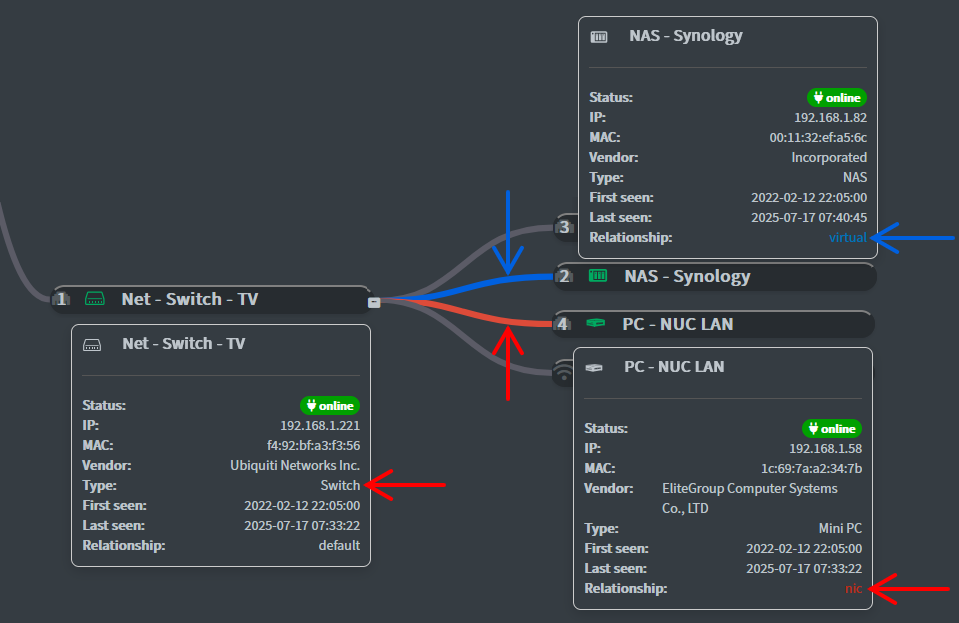
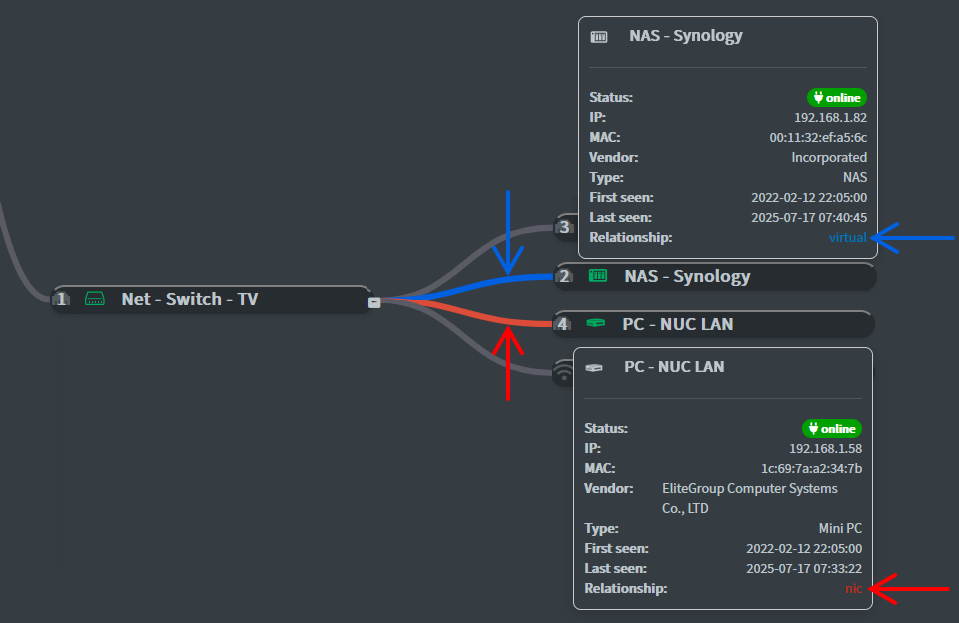
docs and refactor

Changed region(s): [[0.2419, 0.61, 0.4536, 0.8844], [0.0605, 0.6404, 0.1814, 0.8844], [0.121, 0.5185, 0.2722, 0.5795]]

diff --git a/front/css/app.css b/front/css/app.css
@@ -1671,7 +1671,7 @@ input[readonly] {
 /* AdminLTE overrides */
 #networkTree .box
 {
-    /* border-top:1px; */
+    border-width:1px;
     border-top-color:grey;
     padding:0px;
     margin:0px;
@@ -1707,6 +1707,7 @@ input[readonly] {
     opacity: 0.3;
     display: initial;    
     float: left;
+    width: 1em;
 }
 
 #networkTree
@@ -1791,6 +1792,14 @@ input[readonly] {
     box-shadow: var(--color-gray) 0px 0px 10px;
 }
 
+#networkTree .network-hw-icon
+{
+    position: absolute;
+    margin-left: -0.4em;
+    opacity: 0.3;
+    margin-top: 0.1em;
+}
+
 #networkTree .highlightedNode
 {
     /* border: solid; */
@@ -1819,6 +1828,11 @@ input[readonly] {
     /* z-index: 10; */
     top: 0.3em;
     /* margin-left: 0.2em; */
+}
+
+.networkTable
+{
+    padding-bottom: 1px;
 }
 
 .networkNodeTabHeaders .icon i

diff --git a/front/pluginsCore.php b/front/pluginsCore.php
@@ -4,12 +4,6 @@
   require_once  $_SERVER['DOCUMENT_ROOT'] . '/php/templates/security.php';
 ?>
 
-<!-- ----------------------------------------------------------------------- -->
-
-<!-- ----------------------------------------------------------------------- -->
- 
-
-
 <!-- Main content ---------------------------------------------------------- -->
 <section class="content">
   <div class="plugin-filters hidden" >
@@ -29,38 +23,56 @@
   
 </section>
 
-
-
 <script>
 
-// -----------------------------------------------------------------------------
-// Initializes fields based on current MAC
-function initFields() {   
+// Global variable to track the last MAC we initialized with
+let lastMac = null;
+let keepUpdating = true;
 
-  var urlParams = new URLSearchParams(window.location.search);
-  mac = urlParams.get ('mac');  
+function initMacFilter() {
+  // Parse the MAC parameter from the URL (e.g., ?mac=00:11:22:33:44:55)
+  const urlParams = new URLSearchParams(window.location.search);
+  const mac = urlParams.get('mac');
 
-  // if the current mac has changed, reinitialize the data
-  if(mac != undefined && $("#txtMacFilter").val() != mac)
-  {    
-    
-    $("#txtMacFilter").val(mac);    
+  // Set the MAC in the input field
+  $("#txtMacFilter").val(mac);
 
-    getData();
-  } 
-
+  return mac;  
 }
 
 // -----------------------------------------------------------------------------
-// Checking if current MAC has changed and triggering an updated if needed
-function updater() {   
+// Initializes the fields if the MAC in the URL is different or not yet set
+function initFields() {
 
-  initFields()
+  // Get current value from the readonly text field
+  const currentVal = initMacFilter();
 
-  // loop
-  setTimeout(function() {
-    updater();
-  }, 500);   
+  // If a MAC exists in the URL and it's either:
+  //  - the first time running (field shows default "--"), or
+  //  - different from what's already displayed
+  if (currentVal != "--" && currentVal !== lastMac) {
+
+
+    // Update the lastMac so we don't reload unnecessarily
+    lastMac = currentVal;
+
+    // Trigger data loading based on new MAC
+    getData();
+  } else if((currentVal === "--" || currentVal == null  ) && keepUpdating)
+  {
+    $("#txtMacFilter").val("--"); // need to set this as filters are using this later on
+    keepUpdating = false; // stop updates
+    getData();
+  }
+}
+
+// -----------------------------------------------------------------------------
+// Recurring function to monitor the URL and reinitialize if needed
+function updater() {
+  initFields();
+
+  // Run updater again after 500 milliseconds
+  setTimeout(updater, 500);
 }
 
 // -----------------------------------------------------------------------------
@@ -241,7 +253,9 @@ pluginUnprocessedEvents = []
 pluginObjects = []
 pluginHistory = []
 
-function getData(){
+function getData(){ 
+  
+  console.log("Plugins getData called");  
 
   // Show the loading spinner while generating 
   showSpinner();
@@ -539,7 +553,12 @@ function deleteListed(plugPrefix, dbTable) {
 
 // show spinning icon
 showSpinner()
-getData()
-updater()
+// Start updater on page load
+$(document).ready(function () {
+  setTimeout(() => {
+    updater();  
+  }, 100);
+  
+});
 
 </script>

diff --git a/front/network.php b/front/network.php
@@ -668,7 +668,7 @@ function initTree(myHierarchy)
 
       (port == "" || port == 0 || port == 'None' ) ? portBckgIcon = `<i class="fa fa-wifi"></i>` : portBckgIcon = `<i class="fa fa-ethernet"></i>`;
 
-      portHtml = (port == "" || port == 0 || port == 'None' ) ? "" : port;
+      portHtml = (port == "" || port == 0 || port == 'None' ) ? " &nbsp " : port;
       
       // Build HTML for individual nodes in the network diagram        
       deviceIcon = (!emptyArr.includes(nodeData.data.icon )) ?  
@@ -688,7 +688,7 @@ function initTree(myHierarchy)
       // generate +/- icon if node has children nodes
       collapseExpandHtml = nodeData.data.hasChildren ? 
                     `<div class="netCollapse" 
-                          style="font-size:${nodeHeightPx/2}px;top:${nodeHeightPx/4}px" 
+                          style="font-size:${nodeHeightPx/2}px;top:${Math.floor(nodeHeightPx / 4)}px" 
                           data-mytreepath="${nodeData.data.path}" 
                           data-mytreemac="${nodeData.data.mac}">
                       <i class="fa fa-${collapseExpandIcon} pointer"></i>
@@ -700,6 +700,10 @@ function initTree(myHierarchy)
                     " highlightedNode " : "";
       cssNodeType = nodeData.data.devIsNetworkNodeDynamic  ? 
                     " node-network-device " : " node-standard-device ";
+
+      networkHardwareIcon = nodeData.data.devIsNetworkNodeDynamic ? `<span class="network-hw-icon">
+                                <i class="fa-solid fa-hard-drive"></i>
+                            </span>` : "";
 
       const badgeConf = getStatusBadgeParts(nodeData.data.presentLastScan, nodeData.data.alertDown, nodeData.data.mac, statusText = '')
 
@@ -725,6 +729,7 @@ function initTree(myHierarchy)
                           <div class="netNodeText">
                             <strong><span>${devicePort}  <span class="${badgeConf.cssText}">${deviceIcon}</span></span>
                               <span class="spanNetworkTree anonymizeDev" style="width:${nodeWidthPx-50}px">${nodeData.data.name}</span>
+                              ${networkHardwareIcon}
                             </strong>                            
                           </div>                          
                         </div>
@@ -743,11 +748,9 @@ function initTree(myHierarchy)
     idKey: "mac",
     hasFlatData: false,
     relationnalField: "children",
-    linkWidth: (nodeData) => 3,
+    linkWidth: (nodeData) => 2,
     linkColor: (nodeData) => {  
-
       relConf = getRelationshipConf(nodeData.data.relType)  
-
       return relConf.color;
     }
     // onNodeClick: (nodeData) => handleNodeClick(nodeData),
@@ -797,8 +800,6 @@ function initTab()
   });
   
 }
-
-
 
 // ---------------------------------------------------------------------------
 function initSelectedNodeHighlighting()

diff --git a/docs/NETWORK_TREE.md b/docs/NETWORK_TREE.md
@@ -51,6 +51,8 @@ Let’s walk through setting up a device named `raspberrypi` to act as a network
 - Optionally assign a **Parent Node** (where this device connects to) and the **Relationship type** of the connection.  
   The `nic` relationship type can affect parent notifications — see the setting description and [Notifications documentation](./NOTIFICATIONS.md) for more.
 
+![Device details](./img/NETWORK_TREE/Network_Device_Details_Parent.png)  
+
 > [!NOTE]  
 > Only certain device types can act as network nodes:  
 > `AP`, `Firewall`, `Gateway`, `Hypervisor`, `PLC`, `Powerline`, `Router`, `Switch`, `USB LAN Adapter`, `USB WIFI Adapter`, `WLAN`  
@@ -60,7 +62,7 @@ Let’s walk through setting up a device named `raspberrypi` to act as a network
 
 ---
 
-### 2. Confirm It Appears as a Network Node
+### 2. Confirm The Device Appears as a Network Node
 
 You can confirm that `raspberrypi` now acts as a network device in two places:
 
@@ -83,7 +85,7 @@ You can confirm that `raspberrypi` now acts as a network device in two places:
 
 ![Assigned nodes](./img/NETWORK_TREE/Network_Assigned_Nodes.png)
 
-- Relationship lines may vary in color based on the selected Relationship type. These are editable on the device details page where you assign a parent node.
+- Relationship lines may vary in color based on the selected Relationship type. These are editable on the device details page where you can also assign a parent node.
 
 ![Hover detail](./img/NETWORK_TREE/Network_tree_setup_hover.png)
 
